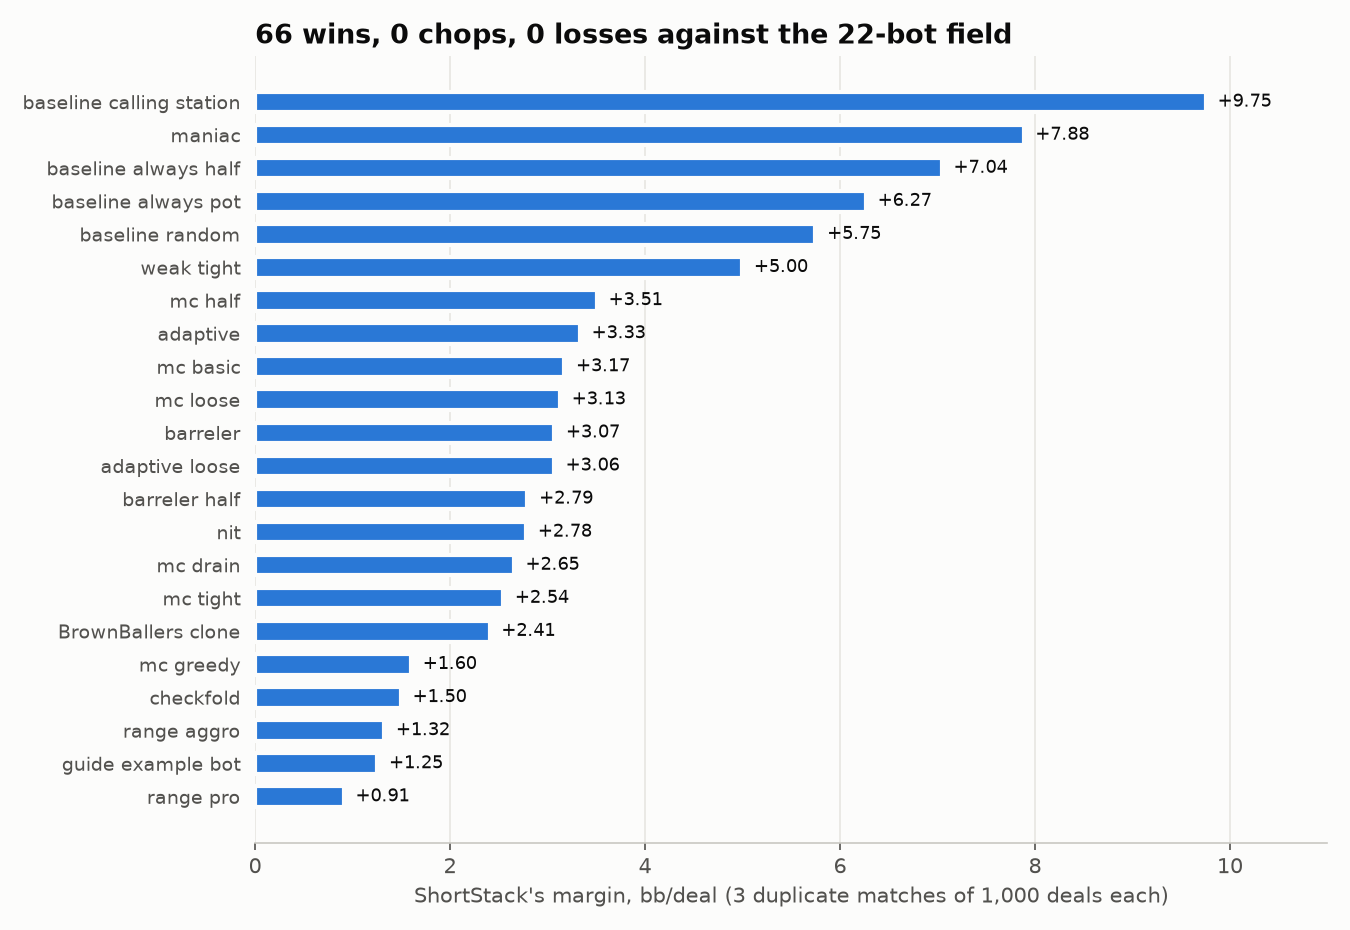
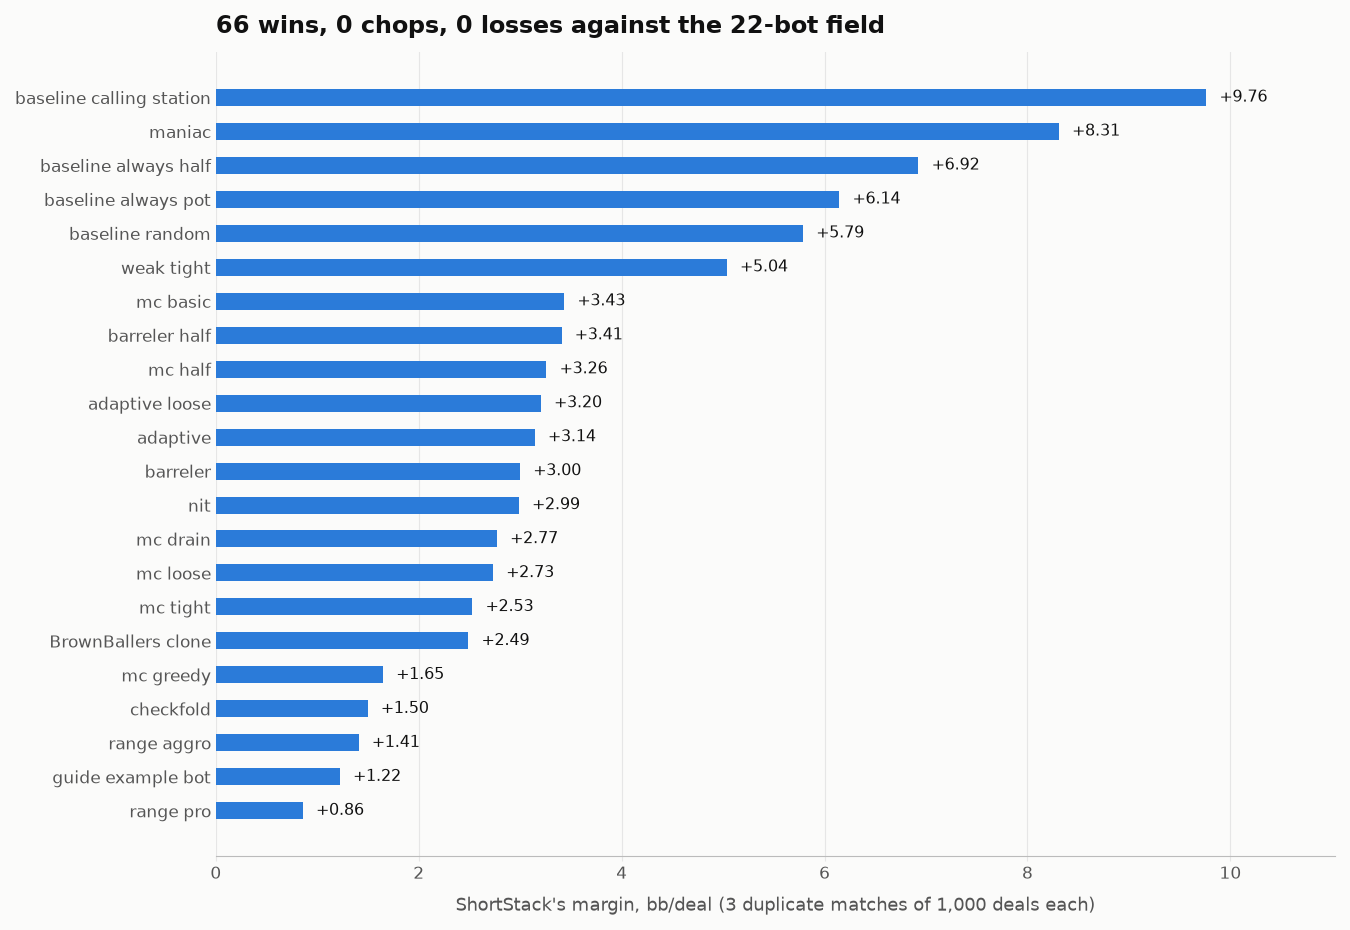
Update README with the current results
New numbers from the final league (66-0-0 vs the 22-bot field,
+3.71 bb/deal), the real BrownBallers code (3 of 3), the Docker matches
against Drew's sdplo_v4 (3 wins, 1 chop) and the faster equity engine.
The how-it-works section covers per-street levels, adaptive river bluffs
and the wider defense, and the README now says plainly that Drew's bot
beats ShortStack when it keeps its time bank.

tools/make_league_chart.py rebuilds docs/images/league.png from a
sim.league table, so the chart and the text come from the same run.

Changed region(s): [[0.0, 0.0935, 0.9644, 0.9978], [0.1556, 0.0, 0.7467, 0.0624], [0.5289, 0.2806, 0.5911, 0.3118]]

diff --git a/tools/make_league_chart.py b/tools/make_league_chart.py
@@ -1,0 +1,67 @@
+"""Rebuild docs/images/league.png from a sim.league standings table.
+
+    python -m sim.league --focus agent --seeds 1 2 3 --workers 6 > results/league.txt
+    python tools/make_league_chart.py results/league.txt
+
+Plots ShortStack's margin against every non-self bot in the table (the
+"field"), sorted, with the win/chop/loss count in the title.
+"""
+
+from __future__ import annotations
+
+import os
+import re
+import sys
+
+import matplotlib
+
+matplotlib.use("Agg")
+import matplotlib.pyplot as plt  # noqa: E402
+
+ROOT = os.path.dirname(os.path.dirname(os.path.abspath(__file__)))
+OUT = os.path.join(ROOT, "docs", "images", "league.png")
+LABELS = {"brown": "BrownBallers clone", "guide_example": "guide example bot"}
+BAR, TEXT, MUTED, GRID, BG = "#2b7bd9", "#111111", "#555555", "#e6e6e6", "#fbfbfa"
+
+
+def field_rows(path: str) -> list[tuple[str, float, tuple[int, int, int]]]:
+    """(bot, bb/deal for the bot, W-C-L) for every non-self bot in the table."""
+    rows = re.findall(r"^(\S+)\s+[\d.]+\s+(\d+)-(\d+)-(\d+)\s+([+-][\d.]+)", open(path).read(), re.M)
+    return [(name, float(bb), (int(w), int(c), int(l))) for name, w, c, l, bb in rows
+            if name != "agent" and not name.startswith("self_")]
+
+
+def main(path: str) -> None:
+    rows = field_rows(path)
+    # A bot's losses are our wins and the other way round.
+    wins = sum(wcl[2] for _, _, wcl in rows)
+    chops = sum(wcl[1] for _, _, wcl in rows)
+    losses = sum(wcl[0] for _, _, wcl in rows)
+    data = sorted(((LABELS.get(n, n.replace("_", " ")), -bb) for n, bb, _ in rows), key=lambda x: x[1])
+
+    fig, ax = plt.subplots(figsize=(13.5, 9.3), dpi=100)
+    fig.patch.set_facecolor(BG)
+    ax.set_facecolor(BG)
+    names, margins = zip(*data)
+    ax.barh(names, margins, color=BAR, height=0.5, zorder=2)
+    for y, m in enumerate(margins):
+        ax.text(m + 0.13, y, f"{m:+.2f}", va="center", fontsize=11.5, color=TEXT)
+    ax.set_title(f"{wins} wins, {chops} chops, {losses} losses against the {len(rows)}-bot field",
+                 loc="left", fontsize=17, fontweight="bold", color=TEXT, pad=14)
+    ax.set_xlabel("ShortStack's margin, bb/deal (3 duplicate matches of 1,000 deals each)",
+                  fontsize=13, color=MUTED, labelpad=10)
+    ax.set_xlim(0, max(margins) * 1.13)
+    ax.grid(axis="x", color=GRID, zorder=0)
+    ax.tick_params(axis="y", length=0, labelsize=12.5, labelcolor=MUTED)
+    ax.tick_params(axis="x", labelsize=12.5, labelcolor=MUTED, color=GRID)
+    for side in ("top", "right", "left"):
+        ax.spines[side].set_visible(False)
+    ax.spines["bottom"].set_color("#bbbbbb")
+    fig.tight_layout()
+    fig.savefig(OUT, facecolor=BG)
+    print(f"wrote {OUT}: {wins}-{chops}-{losses} vs {len(rows)} bots, "
+          f"{min(margins):+.2f} to {max(margins):+.2f} bb/deal")
+
+
+if __name__ == "__main__":
+    main(sys.argv[1] if len(sys.argv) > 1 else os.path.join(ROOT, "results", "league_final4.txt"))

diff --git a/README.md b/README.md
@@ -15,14 +15,14 @@ ShortStack plays 1,000-deal duplicate matches against every other team's bot. It
 
 <p align="center"><img src="docs/images/range_weights.png" alt="Weight of each sampled opponent hand by made-hand strength: flat after a check, cut at 0.40 after a bet, 0.62 after a raise, and only 0.10 when a bot bets every street" width="760"></p>
 
-<p align="center"><img src="docs/images/league.png" alt="ShortStack's margin against each of the 22 non-self pool bots, from +0.91 bb/deal against range_pro to +9.75 against the calling station" width="760"></p>
+<p align="center"><img src="docs/images/league.png" alt="ShortStack's margin against each of the 22 non-self pool bots, from +0.86 bb/deal against range_pro to +9.76 against the calling station" width="760"></p>
 
 <p align="center"><img src="docs/images/ab_tests.png" alt="Paired A/B results: learn_postflop +0.097 and agg_prev_adapt +0.177 were kept; five other ideas fell short of the +0.05 bar" width="760"></p>
 
 ## How it works
 
-Most of the field will compute equity with `omaha_score`, which costs about **75 µs** per call, so naive simulation drains the **8 s** time bank and the judge then plays check-or-fold for them. ShortStack precomputes a **630 x 7140** rank table, which scores an Omaha hand in about **1.3 µs** in batches (a Monte Carlo call costs about **0.35 ms** plus **3.5 µs** per sample). Preflop decisions read a table of equity vs a random hand for all **376,992** starting hands. Postflop, sampled opponent hands are weighted by their preflop percentile and by how strong their made hand must be to explain their bets, so a pot-sized bet isn't treated like a random hand. Those levels are learned too: they move toward each opponent's bet frequency and the hands it shows down, and a bot that bets every street is read as betting its whole range. Calls are priced between the pot odds and the all-in odds, depending on how often the opponent keeps betting. After **10** default actions in a row (including **4** folds), it raises every hand. Its own logic spends at most **45%** of the time bank, and a timing probe at the start of each half scales that down on a slower machine (it no longer runs out even 4x slower), and every answer is checked for legality, so it can't forfeit on errors.
+Most of the field will compute equity with `omaha_score`, which costs about **15 µs** per hand, so naive simulation drains the **8 s** time bank and the judge then plays check-or-fold for them. ShortStack precomputes a **630 x 7140** rank table and scores its own hand against every board once per hand, so a 1,000-sample Monte Carlo call takes about **1.3 ms** on the flop and turn and **0.36 ms** on the river. Preflop decisions read a table of equity vs a random hand for all **376,992** starting hands. Postflop, sampled opponent hands are weighted by their preflop percentile and by how strong their made hand must be to explain their bets, so a pot-sized bet isn't treated like a random hand. Those levels are learned too: they move toward each opponent's bet frequency and the hands it shows down on each street, and a bot that bets every street is read as betting its whole range. On the river it bluffs when an opponent's measured fold rate to that bet size pays for it, and against bots that bet into it often it calls wider while its own fold rate stays above **55%**. Calls are priced between the pot odds and the all-in odds, depending on how often the opponent keeps betting. After **10** default actions in a row (including **4** folds), it raises every hand. Its own logic spends at most **45%** of the time bank, and a timing probe at the start of each half scales that down on a slower machine (it no longer runs out even 4x slower), and every answer is checked for legality, so it can't forfeit on errors.
 
-Against an opponent pool built to look like the expected field (organizer baselines, the guide's example bot, MC-equity threshold bots, a clone of the rival bot BrownBallers, fast range-aware bots, bluff-heavy barrelers, adaptive exploiters and self-play variants), the bot went **66-0-0** against the 22 non-self bots on three seeds, at **+3.67 bb/deal** (70-25-1 including self-play). Through the real HTTP judge, played tournament-style (each half on freshly started servers), it beat the real BrownBallers code in **3 of 3** matches (+2.18, +2.37, +2.48 bb/deal) and Drew's sdplo bot, a Bayesian-range EV maximiser, in **3 of 4** with one chop (+1.22, +1.88, +1.38, +0.46). It used **3.9-5.3 s** of the 8 s bank with **0 errors**. Every change is A/B tested on paired seeds before it is kept; see [docs/experiments.md](docs/experiments.md).
+Against an opponent pool built to look like the expected field (organizer baselines, the guide's example bot, MC-equity threshold bots, a clone of the rival bot BrownBallers, fast range-aware bots, bluff-heavy barrelers, adaptive exploiters and self-play variants), the bot went **66-0-0** against the 22 non-self bots on three seeds, at **+3.71 bb/deal** (68-25-3 including self-play, where most matches are chops). It beat the real BrownBallers code in **3 of 3** matches (+2.80 to +2.90 bb/deal). In tournament-style Docker matches (each half in fresh containers limited to 1 CPU, [tools/container_match.sh](tools/container_match.sh)) against Drew's sdplo_v4, a Bayesian-range EV maximiser, it won **3 of 4** with one chop (+1.23, +1.21, +0.73, +0.17 bb/deal). It used **5.5-6.4 s** of the 8 s bank in the containers and about **4.8 s** on a laptop, with **0 errors**. Every change is A/B tested on paired seeds before it is kept; see [docs/experiments.md](docs/experiments.md).
 
-The pool is our model of other teams, not the real field, so margins against actual submissions will differ. Timing was measured on a laptop; the tournament machine may be slower, which the time bank absorbs by sampling less.
+The pool is our model of other teams, not the real field, so margins against actual submissions will differ. Drew's bot is the hardest opponent we know of: its Docker wins came largely after it emptied its time bank on 1 CPU, and when it keeps its whole bank (simulated as a 3x faster machine) it beats ShortStack by about **1 bb/deal**. Timing was measured on a laptop; the tournament machine may be slower, which the time bank absorbs by sampling less.
